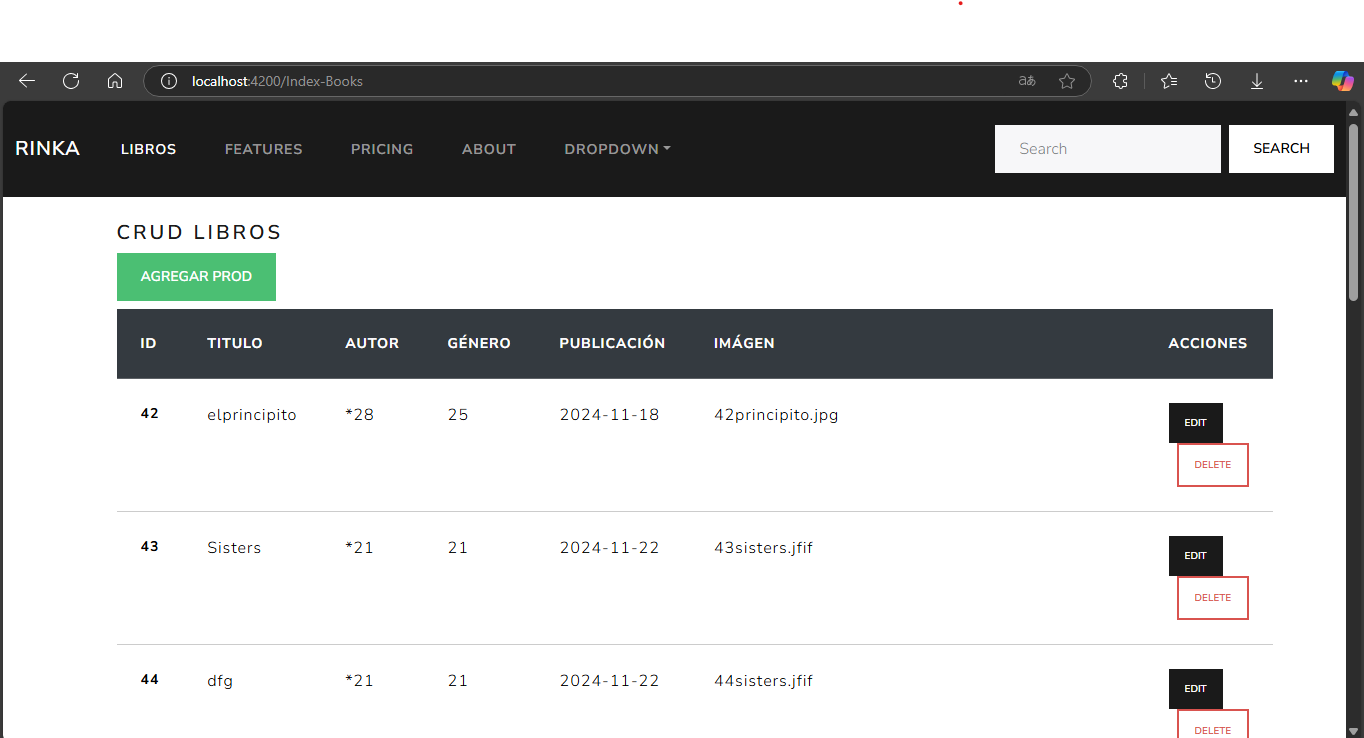
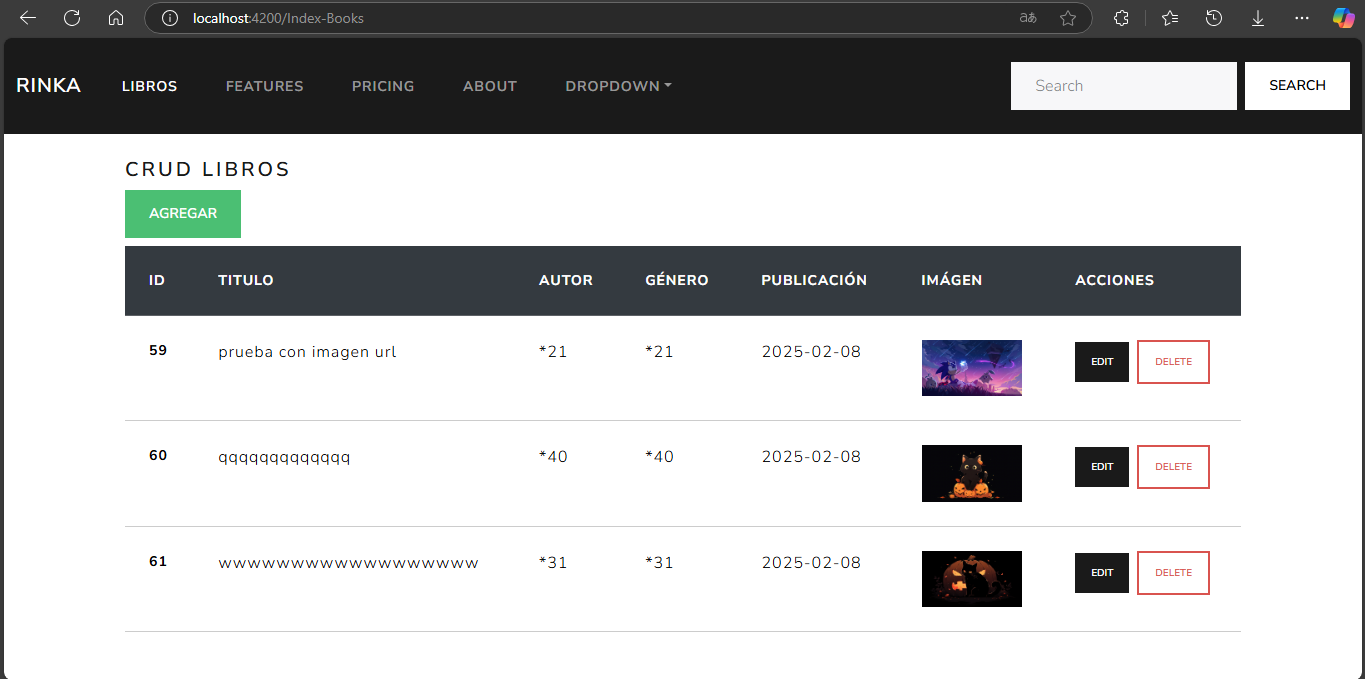
actualización de libros

diff --git a/src/app/components/add-edit-books/add-edit-books.component.html b/src/app/components/add-edit-books/add-edit-books.component.html
@@ -1,11 +1,11 @@
 <div class="container">
     <h2>{{!update_book? 'Crear' : 'Actualizar'}} Libro</h2>
-    <form [formGroup]="form" (ngSubmit)="onSubmit()">
+    <form [formGroup]="form" (ngSubmit)="onSubmit()" enctype="multipart/form-data">
         <!-- Título del Libro -->
         <div class="row">
             <div class="col-md-12">
                 <label for="titulo_libro" class="form-label mt-4">Título del libro</label>
-                <input type="text" class="form-control" formControlName="titulo_libro" id="titulo_libro" placeholder="Introduzca el título del libro">
+                <input type="text" class="form-control" formControlName="titulo_libro" #titulo_libro id="titulo_libro" placeholder="Introduzca el título del libro">
                 <small *ngIf="titulo_libroInvalid" class="form-text text-danger">Por favor introduzca el titulo</small>
             </div>
         </div>
@@ -14,7 +14,7 @@
         <div class="row">
             <div class="col-md-6">
                 <label for="id_genero" class="form-label mt-4">Autor</label>
-                <select class="form-select" id="id_autor" formControlName="id_autor">
+                <select class="form-select" id="id_autor" formControlName="id_autor" #id_autor>
                     <option value="" disabled selected>Seleccione un autor</option>
                     <option *ngFor="let autor of autores" [value]="autor.id_autor">
                         {{ autor.nombre_autor | titlecase }}
@@ -23,7 +23,7 @@
             </div>
             <div class="col-md-6">
                 <label for="id_genero" class="form-label mt-4">Género</label>
-                <select class="form-select" id="id_genero" formControlName="id_genero">
+                <select class="form-select" id="id_genero" formControlName="id_genero" #id_genero>
                     <option value="" disabled selected>Seleccione un género</option>
                     <option *ngFor="let genero of generos" [value]="genero.id_genero">
                         {{ genero.nombre_genero | titlecase }}
@@ -36,7 +36,7 @@
         <div class="row">
             <div class="col-md-6">
                 <label for="fecha_publicacion_libro" class="form-label mt-4">Fecha de publicación</label>
-                <input type="date" class="form-control" formControlName="fecha_publicacion_libro" id="fecha_publicacion_libro">
+                <input type="date" class="form-control" formControlName="fecha_publicacion_libro" #fecha_publicacion_libro id="fecha_publicacion_libro">
                 <small *ngIf="fecha_publicacion_libroInvalid" class="form-text text-danger">Por favor introduzca la fecha</small>
             </div>
         </div>
@@ -45,7 +45,7 @@
         <div class="row">
             <div class="col-md-12">
                 <label for="descripcion_libro" class="form-label mt-4">Descripción del libro</label>
-                <textarea class="form-control" id="descripcion_libro" formControlName="descripcion_libro" rows="3"></textarea>
+                <textarea class="form-control" id="descripcion_libro" formControlName="descripcion_libro" #descripcion_libro rows="3"></textarea>
                 <small *ngIf="descripcion_libroInvalid" class="form-text text-danger">Por favor introduzca la descripción</small>
             </div>
         </div>
@@ -54,17 +54,23 @@
         <div class="row">
             <div class="col-md-12">
                 <label for="imagen_libro" class="form-label mt-4">Imagen del libro</label>
-                <input class="form-control" type="file" id="imagen_libro" formControlName="imagen_libro">
+                <input class="form-control" type="file" id="imagen_libro" (change)="onFileChange($event)">
+                <!-- Mostrar solo si se está actualizando un libro -->
+                <small *ngIf="update_book" class="form-text text-muted">
+                    Imagen actual: 
+                    <a [href]="book?.imagen_libro" target="_blank">Ver imagen</a>
+                </small>
             </div>
         </div>
+
 
         <!-- Botones -->
         <div class="row mt-4">
             <div class="col-12 col-md-6">
-                <button type="submit" class="btn btn-success w-100">{{!update_book? 'Crear' : 'Actualizar'}}</button>
+                <button type="submit" class="btn btn-success w-100 icon-size-zoom">{{!update_book? 'Crear' : 'Actualizar'}}</button>
             </div>
             <div class="col-12 col-md-6">
-                <button type="button" class="btn btn-outline-danger w-100">Cancelar</button>
+                <button type="button" class="btn btn-outline-danger w-100 icon-size-zoom" routerLink="/Index-Books">Cancelar</button>
             </div>
         </div>
     </form>

diff --git a/src/app/components/add-edit-books/add-edit-books.component.ts b/src/app/components/add-edit-books/add-edit-books.component.ts
@@ -6,7 +6,7 @@ import { Router, ActivatedRoute } from '@angular/router';
 import Swal from 'sweetalert2';
 
 // interfaces
-import { BookCreate } from 'src/app/interfaces/books.interface';
+import { BookCreate, BookData, BookUpdate } from 'src/app/interfaces/books.interface';
 import { Genero, GeneroData } from 'src/app/interfaces/generos.interface';
 import { Autor, AutorData } from 'src/app/interfaces/autores.interface';
 
@@ -49,8 +49,10 @@ export class AddEditBooksComponent implements OnInit {
     this._activatedRoute.params.subscribe(params => {      
       if( params['book_id'] != undefined ){        
         this.update_book = true;        
-        this.book_id = +params['book_id'];       
-        //this.getPurchase();        
+        this.book_id = +params['book_id'];
+        this.getGeneros();
+        this.getAutores();     
+        this.getBookById();        
       }else{
         this.formData = true;
         this.getGeneros();
@@ -58,6 +60,25 @@ export class AddEditBooksComponent implements OnInit {
         this.createForm();
       }    
     });
+  }
+
+  getBookById() {
+    this._bookService.getBookById(this.book_id).subscribe(
+      (bookData: BookData) => {
+        if (bookData.status == "success") {
+          this.book = bookData.books;
+          console.log("Estos son los datos del libro:", this.book);
+          this.formData = true;
+          this.createForm();
+        } else{
+          this.alertaError(bookData);
+        }
+      },
+      (error) => {
+        Swal.fire('Error', 'Ocurrio un error con la conexión intentelo más tarde', 'warning');
+        return;
+      }
+    );
   }
 
   getGeneros() {
@@ -94,6 +115,14 @@ export class AddEditBooksComponent implements OnInit {
     );
   }
 
+  onFileChange(event: any) {
+    if (event.target.files.length > 0) {
+        const file = event.target.files[0];
+        this.form.patchValue({ imagen_libro: file });
+    }
+  }
+
+
   
 
   get titulo_libroInvalid() {
@@ -115,13 +144,11 @@ export class AddEditBooksComponent implements OnInit {
       id_genero: [this.book != undefined ? this.book?.id_genero : '', [Validators.required]],
       fecha_publicacion_libro: [this.book != undefined ? this.book?.fecha_publicacion_libro : '', [Validators.required]],
       descripcion_libro: [this.book != undefined ? this.book?.descripcion_libro : '', [Validators.required]],
-      imagen_libro: [this.book != undefined ? this.book?.imagen_libro : '', [Validators.required]],
+      imagen_libro: [this.book != undefined ? this.book?.imagen_libro : '',],
     });
   }
 
   public onSubmit(){
-    console.log('Datos que se enviarán al backend:', this.form.value);
-
     // Si la variable update_book no está se crea un nuevo libro
     if (!this.update_book) {
       // para agregar uno nuevo
@@ -139,8 +166,23 @@ export class AddEditBooksComponent implements OnInit {
             return;
           }
         );
+    }else {
+      // para actualizar
+      this._bookService.updateBook(this.form , this.book_id)
+      .subscribe(
+        (bookUpdate: BookUpdate) => {
+          if (bookUpdate.status == "success") {
+            this.alertaSuccess(bookUpdate);
+          } else {
+            this.alertaError(bookUpdate);
+          }
+        },
+        (error) => {
+          Swal.fire('Error', 'Ocurrio un error al actualizar el libro, intentelo más tarde', 'warning');
+          return;
+        }
+      );
     }
-
   }
 
 

diff --git a/src/app/services/book.service.ts b/src/app/services/book.service.ts
@@ -2,7 +2,7 @@ import { Injectable } from '@angular/core';
 import { HttpClient } from '@angular/common/http';
 import { Observable } from 'rxjs';
 import { FormGroup } from '@angular/forms';
-import { Book, BookData, BookCreate } from '../interfaces/books.interface';
+import { Book, BookData, BookCreate, BookUpdate } from '../interfaces/books.interface';
 import { Genero, GeneroData } from '../interfaces/generos.interface';
 import { AutorData } from '../interfaces/autores.interface';
 
@@ -33,20 +33,54 @@ export class BookService {
 
   // crear un nuevo libro
   public createBook(form: FormGroup): Observable<BookCreate>{
-    const book = {
-      titulo_libro: form.get('titulo_libro')?.value,
-      id_autor: form.get('id_autor')?.value,
-      id_genero: form.get('id_genero')?.value,
-      fecha_publicacion_libro: form.get('fecha_publicacion_libro')?.value,
-      descripcion_libro: form.get('descripcion_libro')?.value,
-      imagen_libro: form.get('imagen_libro')?.value,
-    };
+    const formData = new FormData();
+
+    formData.append('titulo_libro', form.get('titulo_libro')?.value);
+    formData.append('id_autor', form.get('id_autor')?.value);
+    formData.append('id_genero', form.get('id_genero')?.value);
+    formData.append('fecha_publicacion_libro', form.get('fecha_publicacion_libro')?.value);
+    formData.append('descripcion_libro', form.get('descripcion_libro')?.value);
+
+    // Capturar el archivo de imagen correctamente
+    const fileInput = form.get('imagen_libro')?.value;
+    if (fileInput instanceof File) {
+        formData.append('imagen_libro', fileInput);
+    }
+
+    console.log('Datos que se enviarán al backend:', formData);
 
     return this._http.post<BookCreate>(
-      `${this.apiUrl}createbook`, book
+      `${this.apiUrl}createbook`, formData
     );
-
   }
+
+  // obtener los datos de un libro 
+  public getBookById( book_id:number ): Observable<BookData>{
+    return this._http.get<BookData>(`${ this.apiUrl }getBookById/${ book_id }`);
+  }
+
+  // actualizar un nuevo libro
+  public updateBook(form: FormGroup, book_id:number): Observable<BookUpdate>{
+    const formData = new FormData();
+
+    formData.append('titulo_libro', form.get('titulo_libro')?.value);
+    formData.append('id_autor', form.get('id_autor')?.value);
+    formData.append('id_genero', form.get('id_genero')?.value);
+    formData.append('fecha_publicacion_libro', form.get('fecha_publicacion_libro')?.value);
+    formData.append('descripcion_libro', form.get('descripcion_libro')?.value);
+
+    // Capturar el archivo de imagen correctamente
+    const fileInput = form.get('imagen_libro')?.value;
+    if (fileInput instanceof File) {
+        formData.append('imagen_libro', fileInput);
+    }
+    console.log('Datos que se enviarán al backend:', formData);
+
+    return this._http.post<BookUpdate>(
+      `${this.apiUrl}updatebook/${book_id}`, formData
+    );
+  }
+  
 }
 
 

diff --git a/src/app/components/list-books/list-books.component.ts b/src/app/components/list-books/list-books.component.ts
@@ -1,5 +1,5 @@
 import { Component, OnInit } from '@angular/core';
-import { Book } from 'src/app/interfaces/books.interface';
+import { Book, BookData } from 'src/app/interfaces/books.interface';
 import { BookService } from 'src/app/services/book.service';
 import Swal from 'sweetalert2';
 
@@ -17,43 +17,33 @@ export class ListBooksComponent implements OnInit {
     this.getListBooks();
   }
 
+
   getListBooks() {
     this._bookService.getBooks().subscribe(
-      (bookData) => {
-        this.books = bookData.books;
+      (bookData: BookData) => {
+        if (bookData.status == "success") {
+          this.books = bookData.books;
+        } else{
+          this.alertaError(bookData);
+        }
       },
       (error) => {
-        // imprimimos de error
-        console.error("Error al obtener libros:", error.message);
-        // imprimimos el error que manda el back
-        this.alertaError({ errors: [error.error.message] });
+        Swal.fire('Error', 'Ocurrio un error con la conexión intentelo más tarde', 'warning');
+        return;
       }
     );
   }
 
-  // ✅ Notificación success
-  public alertaSuccess(elemento: { message: string }) {
+  
+  // ✅ Notificación error con validación
+  public alertaError(elemento: { message: string }) {
     Swal.fire({
-      icon: 'success',
+      icon: 'error',
       text: elemento.message,
       showConfirmButton: true,
       confirmButtonColor: '#EEB838',
       timer: 3500
-    }).then(() => {
-     // this._router.navigateByUrl('/admin/pmanager/purchases');
     });
   }
 
-  // ✅ Notificación error con validación
-  public alertaError(elemento: { errors?: string[] }) {
-    const errorMsg = elemento.errors?.[0] || "Ha ocurrido un error inesperado.";
-    Swal.fire({
-      icon: 'error',
-      title: 'Ooopppps!',
-      text: errorMsg,
-      showConfirmButton: true,
-      confirmButtonColor: '#EEB838',
-      timer: 3500
-    });
-  }
 }

diff --git a/src/app/components/list-books/list-books.component.html b/src/app/components/list-books/list-books.component.html
@@ -1,6 +1,6 @@
 <div class="container">
     <h4>CRUD Libros</h4>
-    <button type="button" class="btn btn-success icon-size-zoom mb-2" routerLink="/CreateBook">Agregar Prod</button>
+    <button type="button" class="btn btn-success icon-size-zoom mb-2" routerLink="/CreateBook">Agregar</button>
     <table *ngIf="books. length > 0" class="table table-hover">
         <thead class="table-dark">
           <tr>
@@ -18,11 +18,13 @@
             <th scope="row"> {{ item.id_libro}} </th>
             <td>{{ item.titulo_libro}}</td>
             <td>{{ '*' + item.id_autor }}</td>
-            <td>{{ item.id_genero}}</td>
+            <td>{{ '*' + item.id_genero}}</td>
             <td>{{ item.fecha_publicacion_libro}}</td>
-            <td>{{ item.imagen_libro}}</td>
             <td>
-              <button type="button" class="btn btn-sm btn-primary icon-size-zoom">EDIT</button>
+              <img [src]="item.imagen_libro" alt="Imagen del libro" width="100">
+            </td>
+            <td>
+              <button type="button" class="btn btn-sm btn-primary icon-size-zoom" [routerLink]="['/UpdateBook/', item.id_libro ]">EDIT</button>
               <button type="button" class="btn btn-sm btn-outline-danger icon-size-zoom ms-2">DELETE</button>
             </td>
           </tr>

diff --git a/src/app/interfaces/books.interface.ts b/src/app/interfaces/books.interface.ts
@@ -1,3 +1,5 @@
+// lo uso para cuando quiero traer los datos de un libro para actualizar
+// lo uso para cuando quiero traer los datos de todos los libros para el index
 export interface BookData {
     status:  string;
     code:    number;
@@ -5,6 +7,7 @@ export interface BookData {
     books:    Book[];
 }
 
+// lo uso para cuando quiero crear un nuevo libro
 export interface BookCreate {
     status:  string;
     code:    number;
@@ -12,6 +15,15 @@ export interface BookCreate {
     book?:    Book;
 }
 
+// lo uso para cuando quiero actualizar un libro
+export interface BookUpdate {
+    status:  string;
+    code:    number;
+    message: string;
+    book?:    Book;
+}
+
+// son los datos generales del libro
 export interface Book{
     id_libro:                number;
     titulo_libro:            string;

diff --git a/src/app/app-routing.module.ts b/src/app/app-routing.module.ts
@@ -10,6 +10,7 @@ import { ListBooksComponent } from './components/list-books/list-books.component
 const routes: Routes = [
   {path: 'Index-Books', component: ListBooksComponent},
   {path: 'CreateBook', component: AddEditBooksComponent},
+  { path: 'UpdateBook/:book_id', component: AddEditBooksComponent },
   {path: 'nav', component: NavbarComponent},
   { path: '', pathMatch: 'full', redirectTo: '' }
 ]

diff --git a/README.md b/README.md
@@ -1,5 +1,12 @@
 # front-end-angular-libros
 front-end hecho en angular para usar con el back de laravel
-<p1>listado y creación DE LIBROS</p1>
+
+
+### Index de libros 
 <img src="public/images/p1.png" alt="p1">
+### Formulario para crear libro
 <img src="public/images/p2.png" alt="p2">
+### Formulario para actualizar libro
+<img src="public/images/p3.png" alt="p3">
+### Mensaje de success
+<img src="public/images/p4.png" alt="p4">
